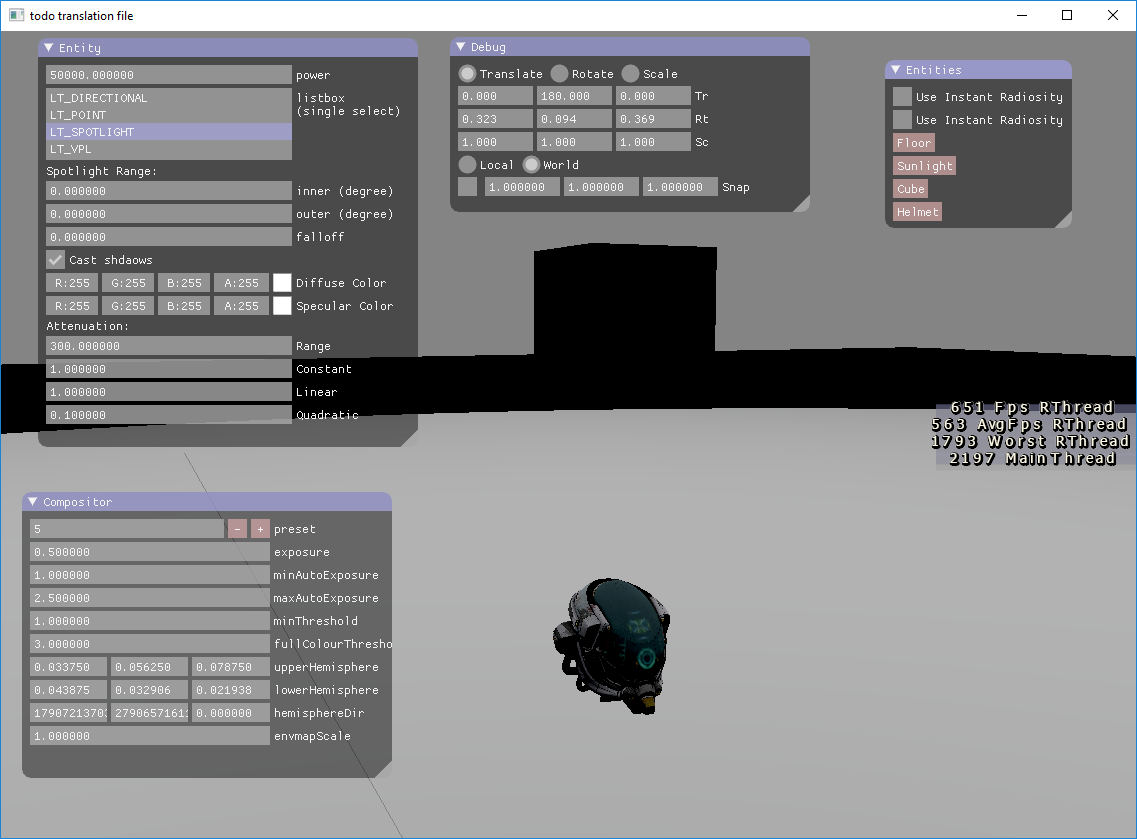
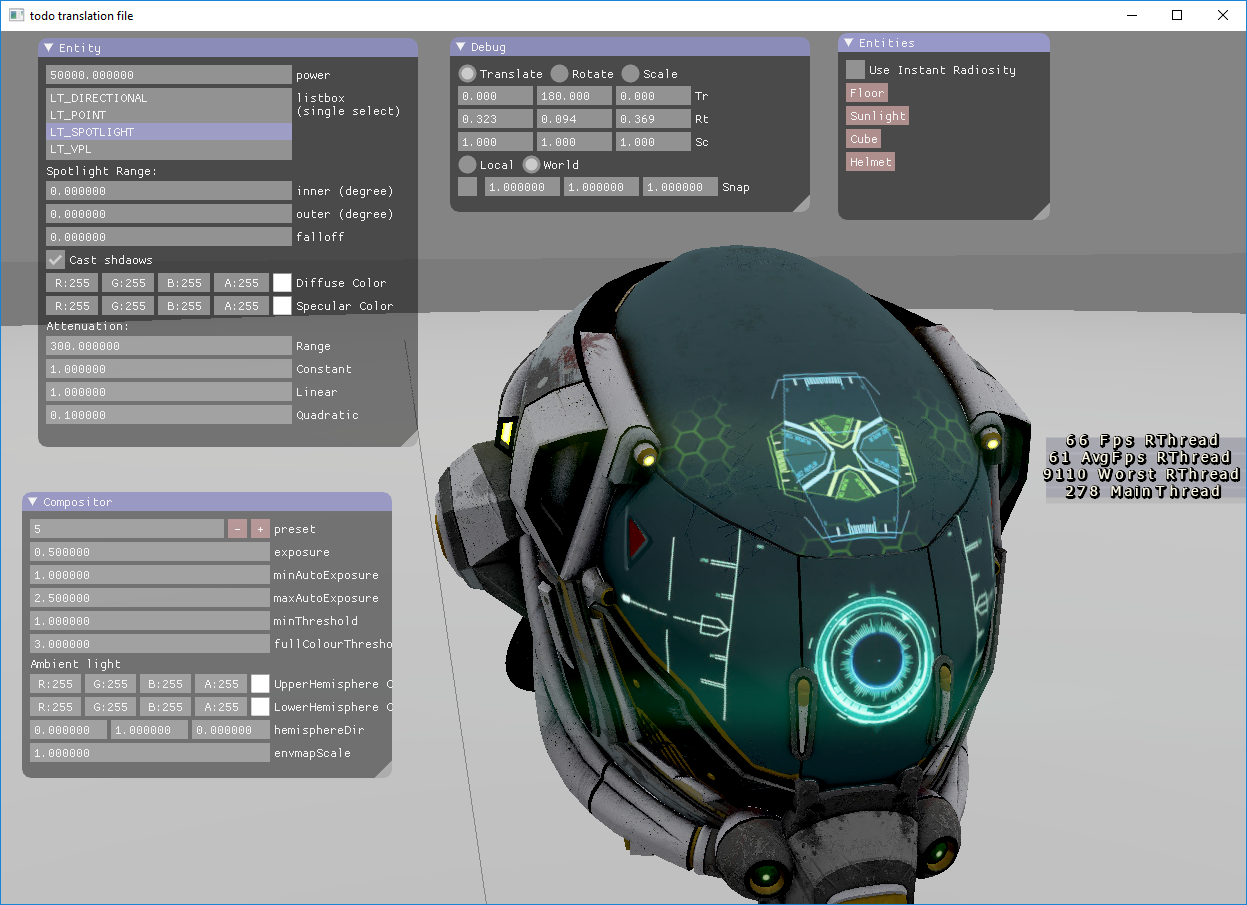
use ambient light.. IR performance sucks ...

diff --git a/src/src/XERenderer/Editor/CompositorUIState.cpp b/src/src/XERenderer/Editor/CompositorUIState.cpp
@@ -6,6 +6,10 @@
 #include <XERenderer/GraphicsManager.hpp>
 #include <XERenderer/Compositor/Compositor.hpp>
 
+#include <XERenderer/OgreWorkspace.hpp>
+
+#include <Ogre/OgreMain/include/OgreSceneManager.h>
+
 namespace XE {
 
 	CompositorUIState::CompositorUIState(GraphicsManager& graphicsMgr, XECompositor& compositor)
@@ -14,6 +18,7 @@ namespace XE {
 		, minThreshold(0.0f), fullColourThreshold(1.0f)
 		, envmapScale(1.0f)
 		, mPreset(5)
+		, hemisphereDir(Ogre::Vector3::NEGATIVE_UNIT_Y)
 	{
 
 	}
@@ -123,10 +128,13 @@ namespace XE {
 
 		m_compositor.setBloomThreshold(minThreshold, fullColourThreshold);
 
-		ImGui::InputFloat3("upperHemisphere", upperHemisphere.ptr());
+		hemisphereDir = m_compositor._t_OgreWorkspace->_t_sceneMgr->getAmbientLightHemisphereDir();
+		upperHemisphere = m_compositor._t_OgreWorkspace->_t_sceneMgr->getAmbientLightUpperHemisphere();
+		lowerHemisphere = m_compositor._t_OgreWorkspace->_t_sceneMgr->getAmbientLightLowerHemisphere();
 
-		ImGui::InputFloat3("lowerHemisphere", lowerHemisphere.ptr());
-		
+		ImGui::Text("Ambient light");
+		ImGui::ColorEdit4("UpperHemisphere Color", upperHemisphere.ptr());
+		ImGui::ColorEdit4("LowerHemisphere Color", lowerHemisphere.ptr());		
 		ImGui::InputFloat3("hemisphereDir", hemisphereDir.ptr());
 		ImGui::InputFloat("envmapScale", &envmapScale);
 

diff --git a/src/src/XEngine/Editor/SceneViewerUIState.cpp b/src/src/XEngine/Editor/SceneViewerUIState.cpp
@@ -68,23 +68,13 @@ namespace XE {
 			mInstantRadiosity = 0;
 		}
 	}
-
+	
 	void SceneViewerUIState::render() {
 		
 		ImGui::Begin("Entities");
 
 		if (ImGui::Checkbox("Use Instant Radiosity", &useInstantRadiosity))
 			enableIR(useInstantRadiosity);
-
-		/*lightSpecularColor = component->_t_light->getSpecularColour();
-		if (ImGui::ColorEdit4("Specular Color", (float*)&lightSpecularColor))
-			component->_t_light->setSpecularColour(lightSpecularColor);*/
-
-		if (ImGui::Checkbox("Use Instant Radiosity", &useInstantRadiosity))
-			m_scene.getOgreSceneManager().__OgreSceneMgrPtr->setAmbientLight(Ogre::ColourValue(1.0f, 1.0f, 1.0f),
-			Ogre::ColourValue(0, 0, 0), Ogre::Vector3::UNIT_Y * 0.2f);
-		//Ogre::ColourValue(0, 0, 0), -_t_light->getDirection() + Ogre::Vector3::UNIT_Y * 0.2f);
-
 
 		for each (auto& displayEntity in _t_displayedEntities)
 		{

diff --git a/src/src/XERenderer/Resource/XEMaterial.cpp b/src/src/XERenderer/Resource/XEMaterial.cpp
@@ -467,7 +467,7 @@ namespace XE
 			const Ogre::HlmsSamplerblock* samplerblock = mHlmsManager->_getSamplerblock(gltfMaterial.emissiveTexture.index);
 			loadSampler(sampler, samplerblock);
 
-			pbsDatablock->setEmissive(Ogre::Vector3(gltfMaterial.emissiveFactor[0], gltfMaterial.emissiveFactor[1], gltfMaterial.emissiveFactor[2]));
+			pbsDatablock->setEmissive(Ogre::Vector3(gltfMaterial.emissiveFactor[0], gltfMaterial.emissiveFactor[1], gltfMaterial.emissiveFactor[2])); 
 		//	pbsDatablock->setDetailMapBlendMode(1,Ogre::PbsBlendModes::PBSM_BLEND_ADD);
 		//	pbsDatablock->setDetailMapWeight(1, 6);
 
